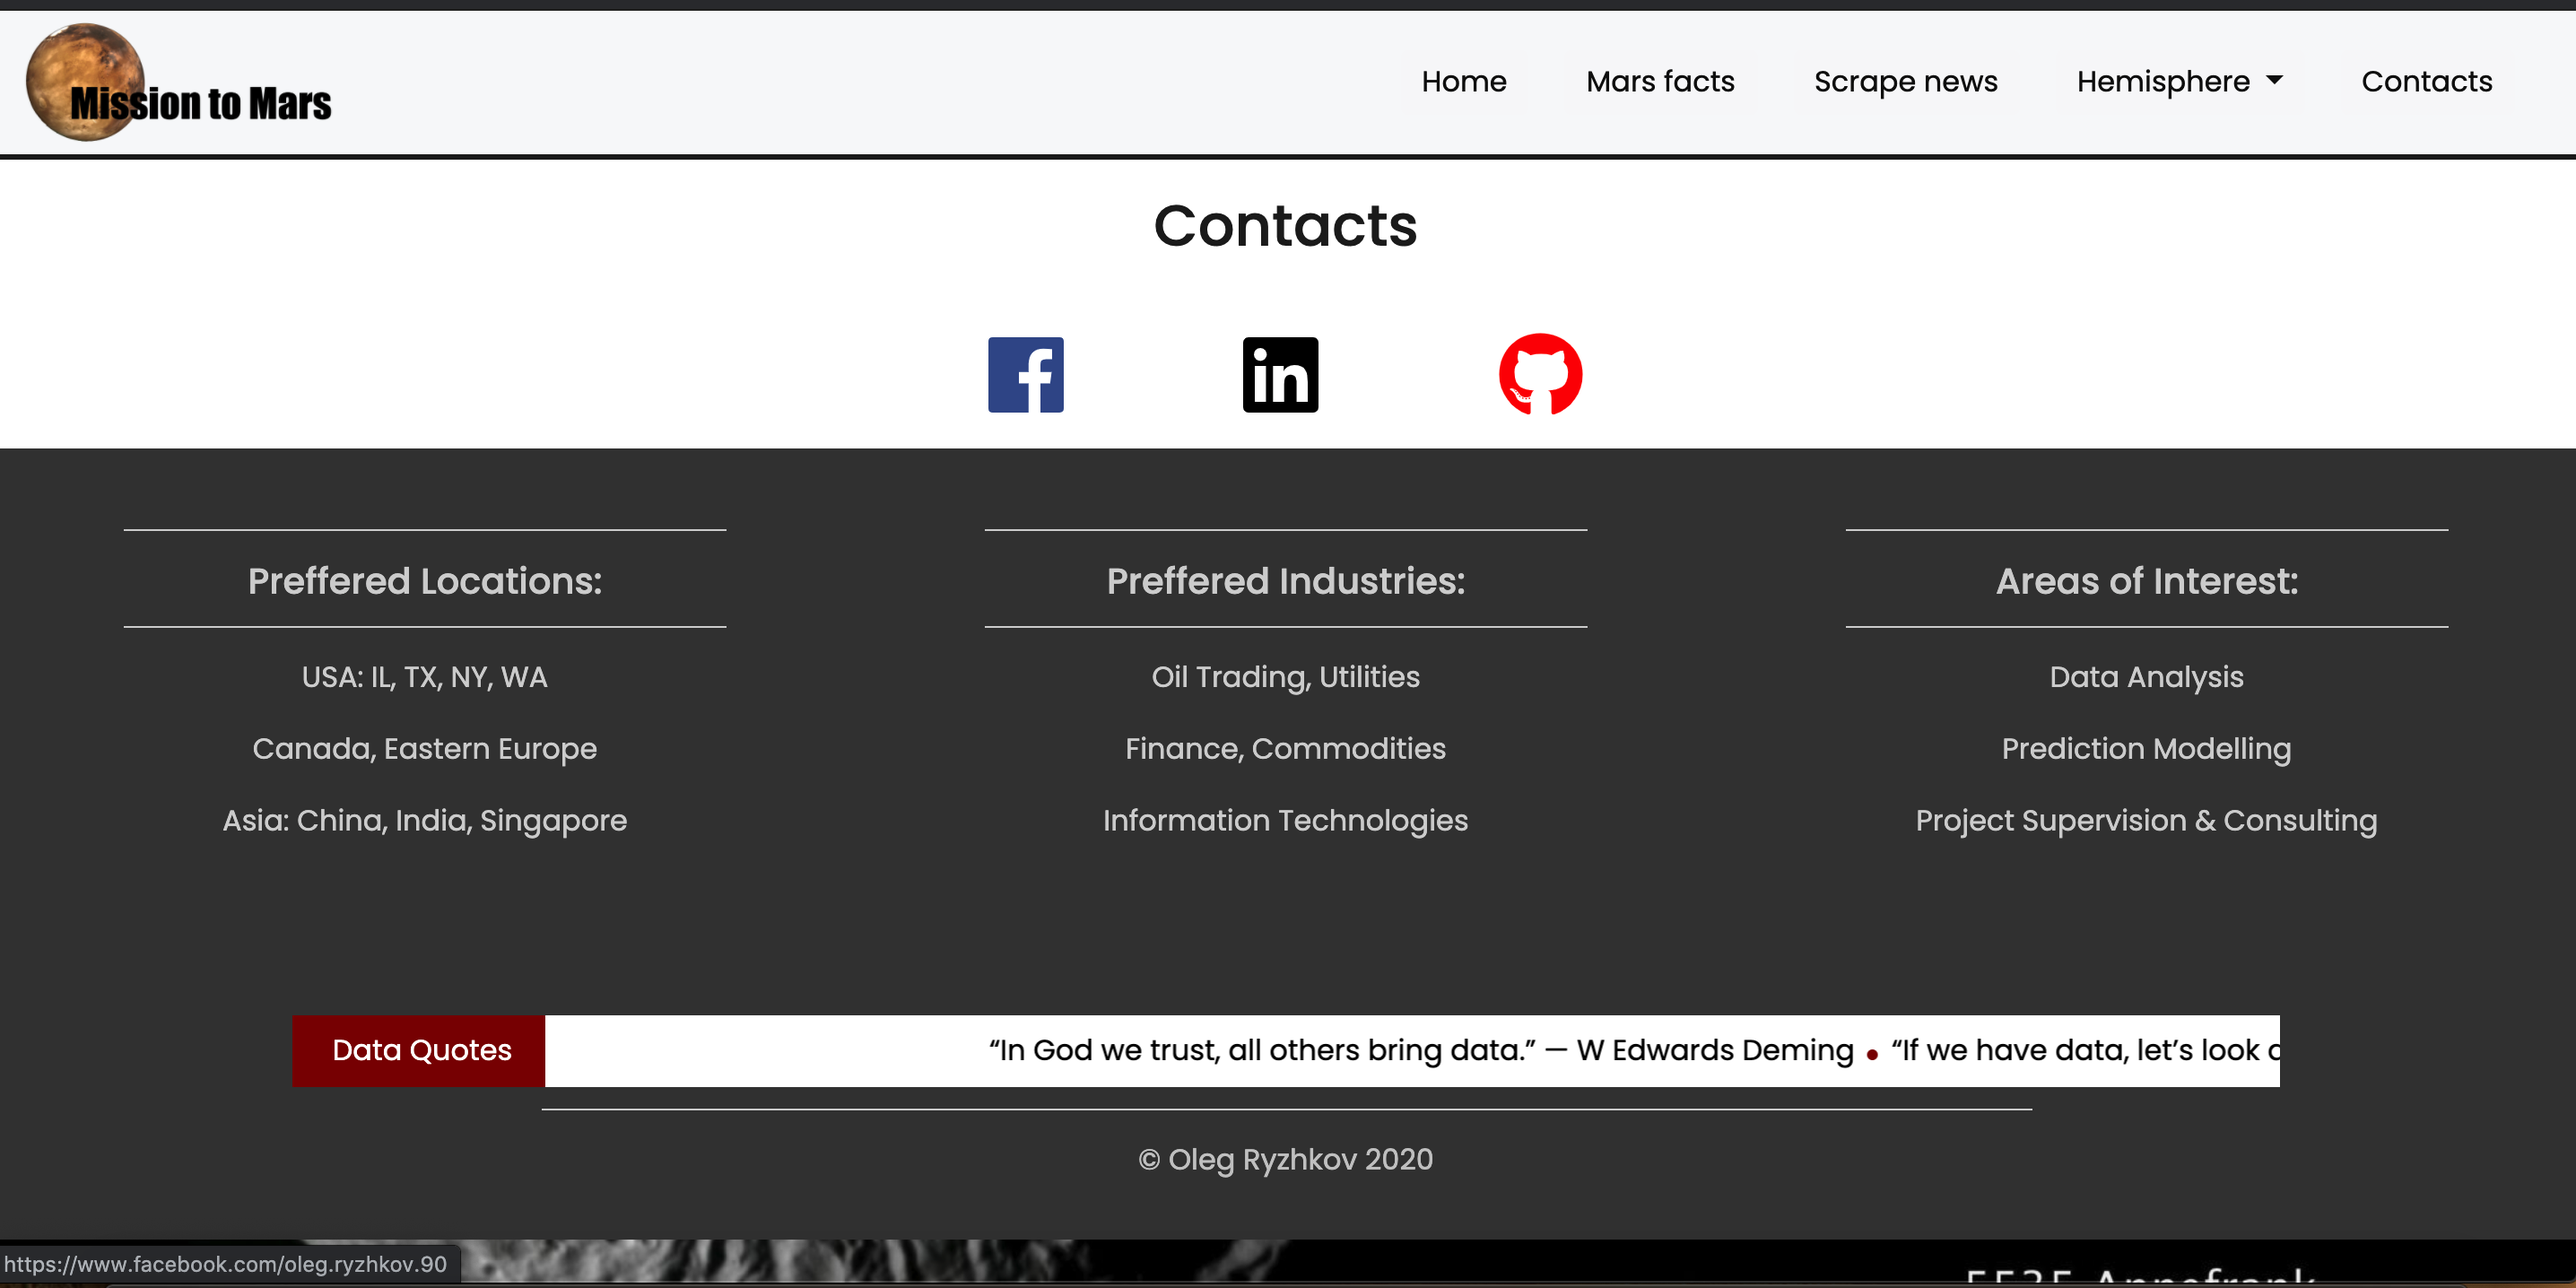
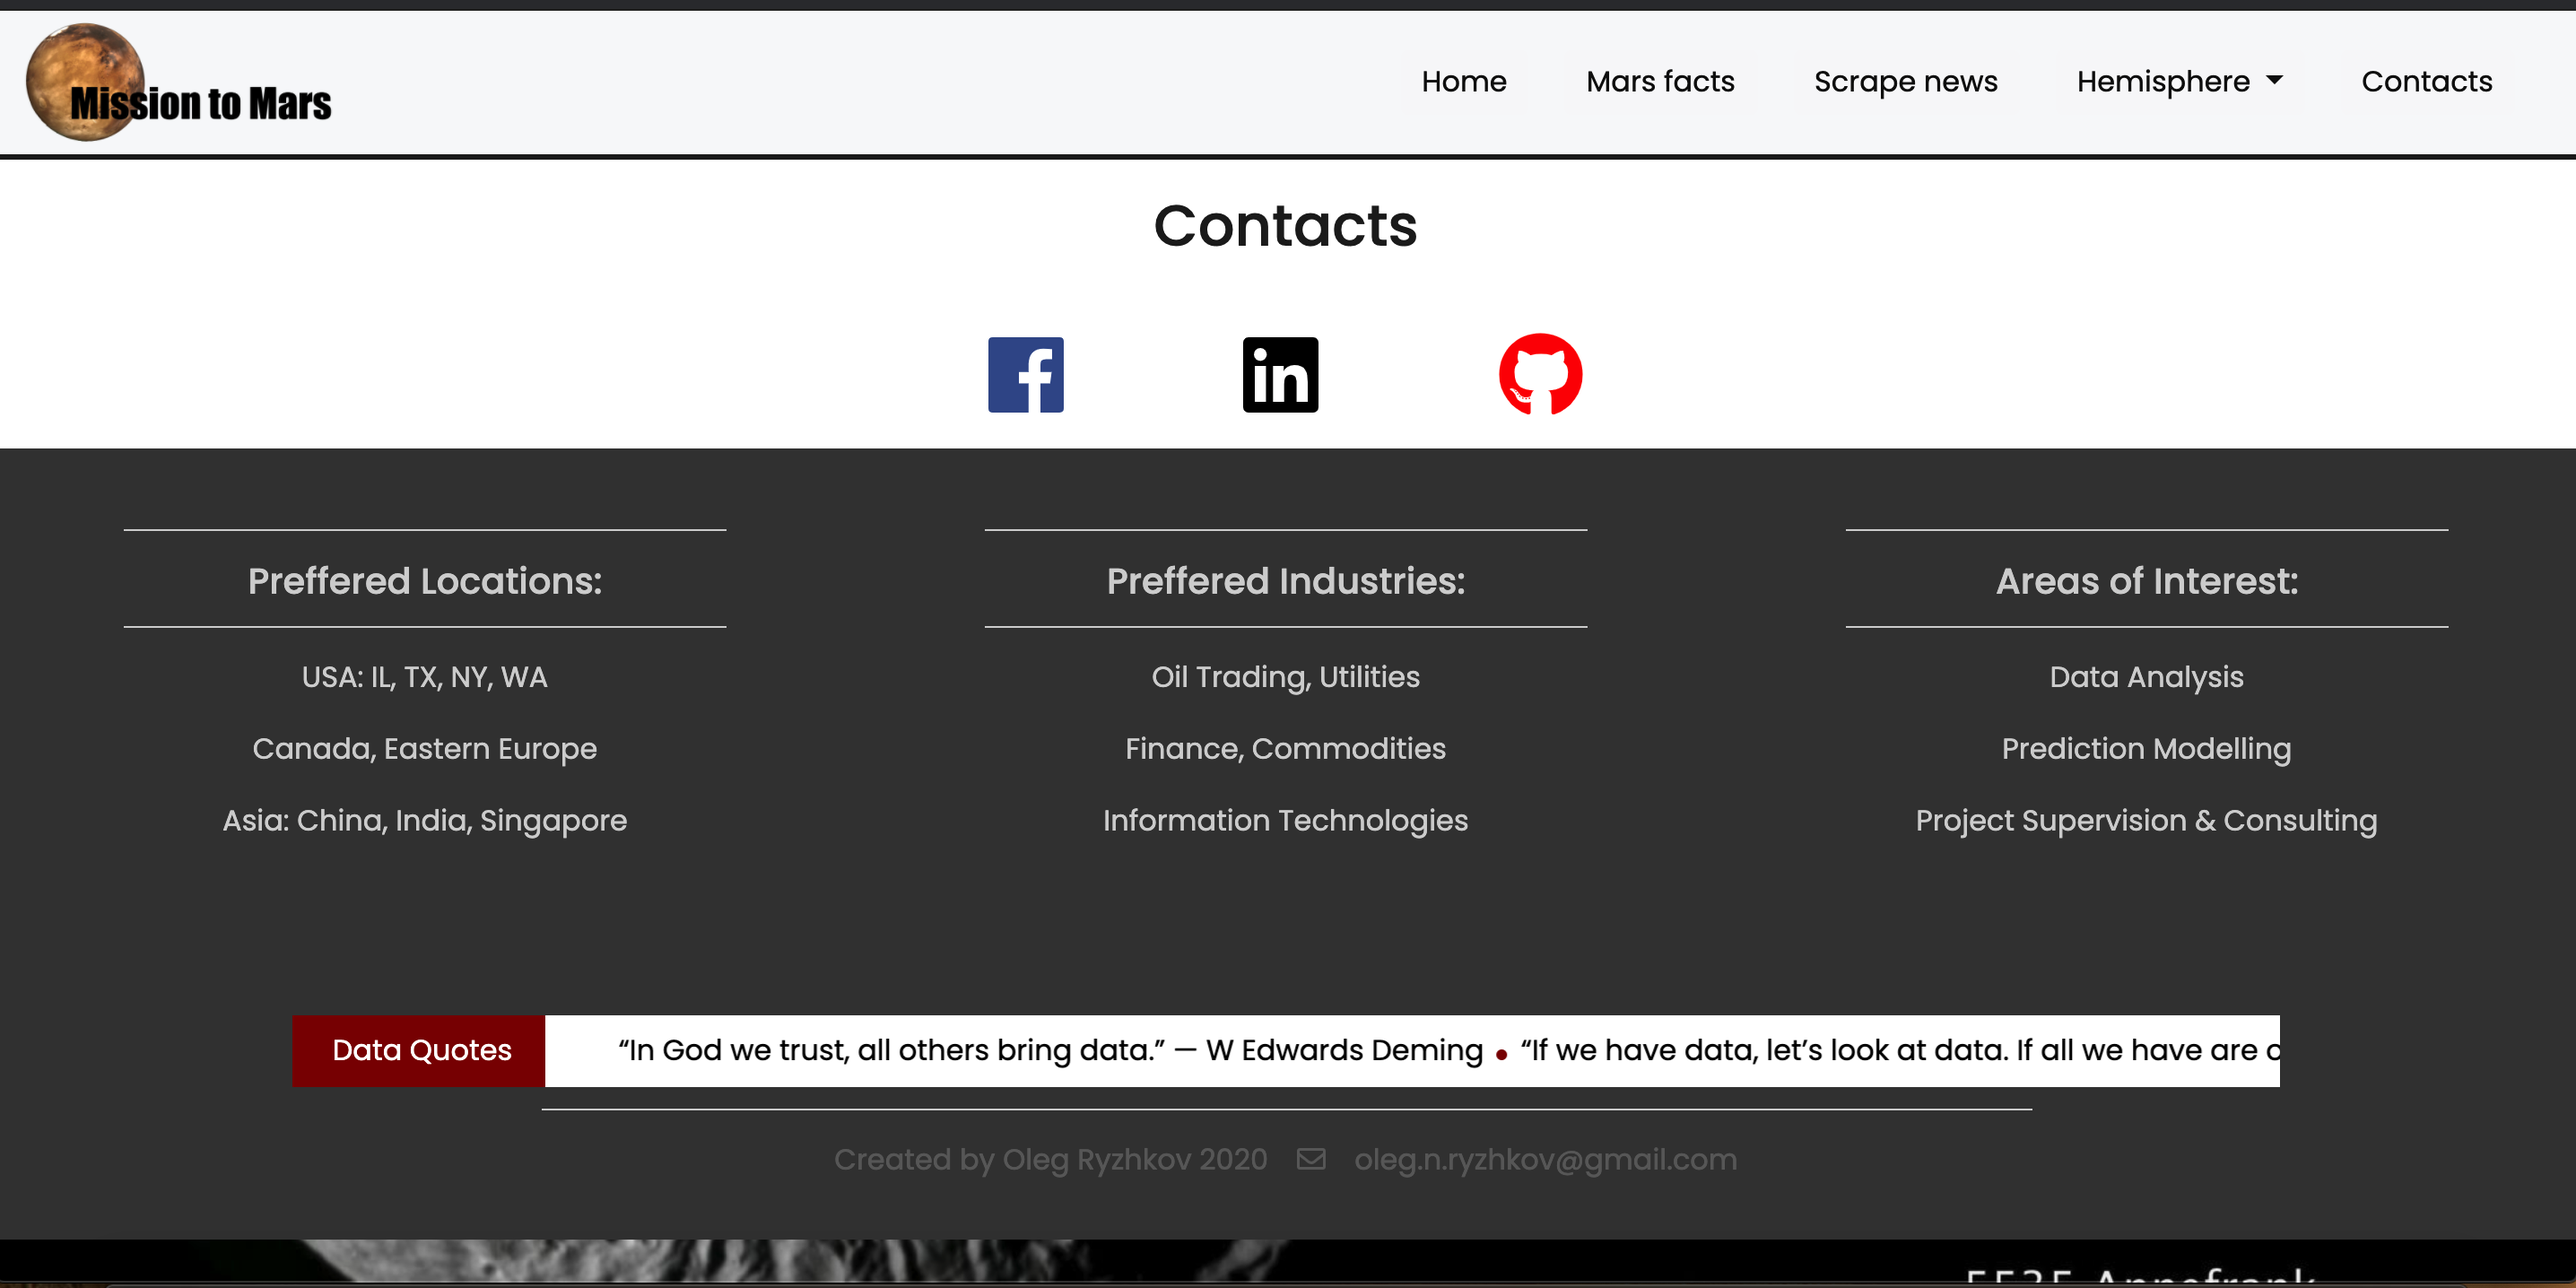
adding featured image collection

Changed region(s): [[0.2479, 0.7967, 0.8987, 0.8273], [0.0, 0.9499, 0.1859, 1.0], [0.3409, 0.8886, 0.6818, 0.9192]]

diff --git a/Missions_to_Mars/templates/contacts.html b/Missions_to_Mars/templates/contacts.html
@@ -3,6 +3,7 @@
 <head>
   <meta charset="utf-8">
   <title>Home Page</title>
+  <link rel="stylesheet" href="https://maxcdn.bootstrapcdn.com/font-awesome/4.4.0/css/font-awesome.min.css">
 </head>
 <body>
   {% extends "navigation.html" %}
@@ -57,7 +58,7 @@
                 <marquee class="news-scroll" behavior="scroll" direction="left" onmouseover="this.stop();" onmouseout="this.start();"> <a href="#">“In God we trust, all others bring data.” — W Edwards Deming </a> <span class="dot"></span> <a href="#">“If we have data, let’s look at data. If all we have are opinions, let’s go with mine.” — Jim Barksdale</a> </marquee>
               </div>
               <hr class="light">
-              <p class="blink_me">&copy; Oleg Ryzhkov 2020</p>
+              <p class="blink_me">Created by Oleg Ryzhkov 2020&emsp;<i class="far fa-envelope"></i>&emsp;oleg.n.ryzhkov@gmail.com</p>
             </div>
           </div>
         </div>

diff --git a/Missions_to_Mars/templates/facts.html b/Missions_to_Mars/templates/facts.html
@@ -32,7 +32,7 @@
 
         <span class="picture" id='image'></span>
         <div class="card">
-          <img class="card-img-bottom" src='https://www.jpl.nasa.gov/spaceimages/images/wallpaper/PIA14316-1920x1200.jpg'>
+          <img class="card-img-bottom" src={{image}}  >
           <div class="card-body">
             <h5 class="card-title"></h5>
           </div>

diff --git a/Missions_to_Mars/app.py b/Missions_to_Mars/app.py
@@ -57,13 +57,15 @@ def scrape():
 # Route that will trigger the facts html page
 @app.route("/facts")
 def facts():
-    # Find records of data from the mongo database
+    # Find records of data from the mongo database mars_facts
     facts_data = mongo.db.mars_facts
     mars_facts = []
     for s in facts_data.find():
         mars_facts.append({'Description' : s['Description'], 'Mars_Fact' : s['Mars_Fact']})
+    # Find records of data from the mongo database mars_images
+    image_data = mongo.db.mars_images.find_one()
     # Return template and data
-    return render_template("facts.html", data=mars_facts)
+    return render_template("facts.html", data=mars_facts, image = image_data['Image_url'])
 
 # Route that will trigger the hemisphere html page
 @app.route("/hem_1")

diff --git a/Missions_to_Mars/ReadMe.md b/Missions_to_Mars/ReadMe.md
@@ -10,7 +10,8 @@ Data Science and Visualization Boot Camp (Northwestern University)
 ![GitHub followers](https://img.shields.io/github/followers/OlegRyzhkov2020?label=Follow&style=social)
 
 ## Application Setup
-* To run the Flask server, I use virtual environment with Python3:
+* Run mission_to_mars.ipynb in Jupyter Notebook to create Mars database and collections
+* Run the Flask server using the virtual environment with Python3:
 ** pipenv shell
 ** pip install Flask Flask-PyMongo
 ** python app.py
